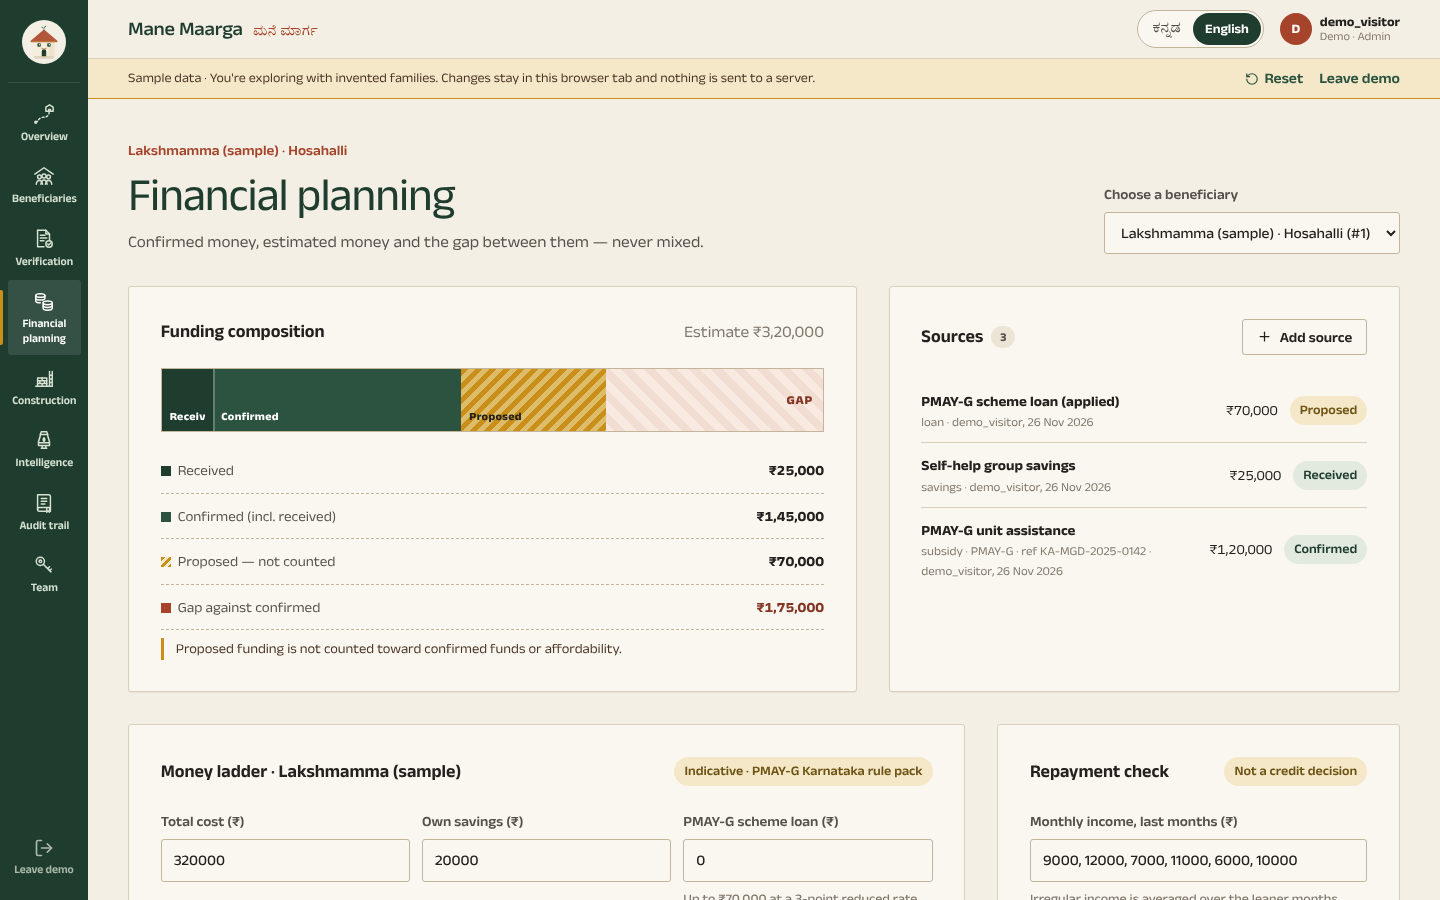
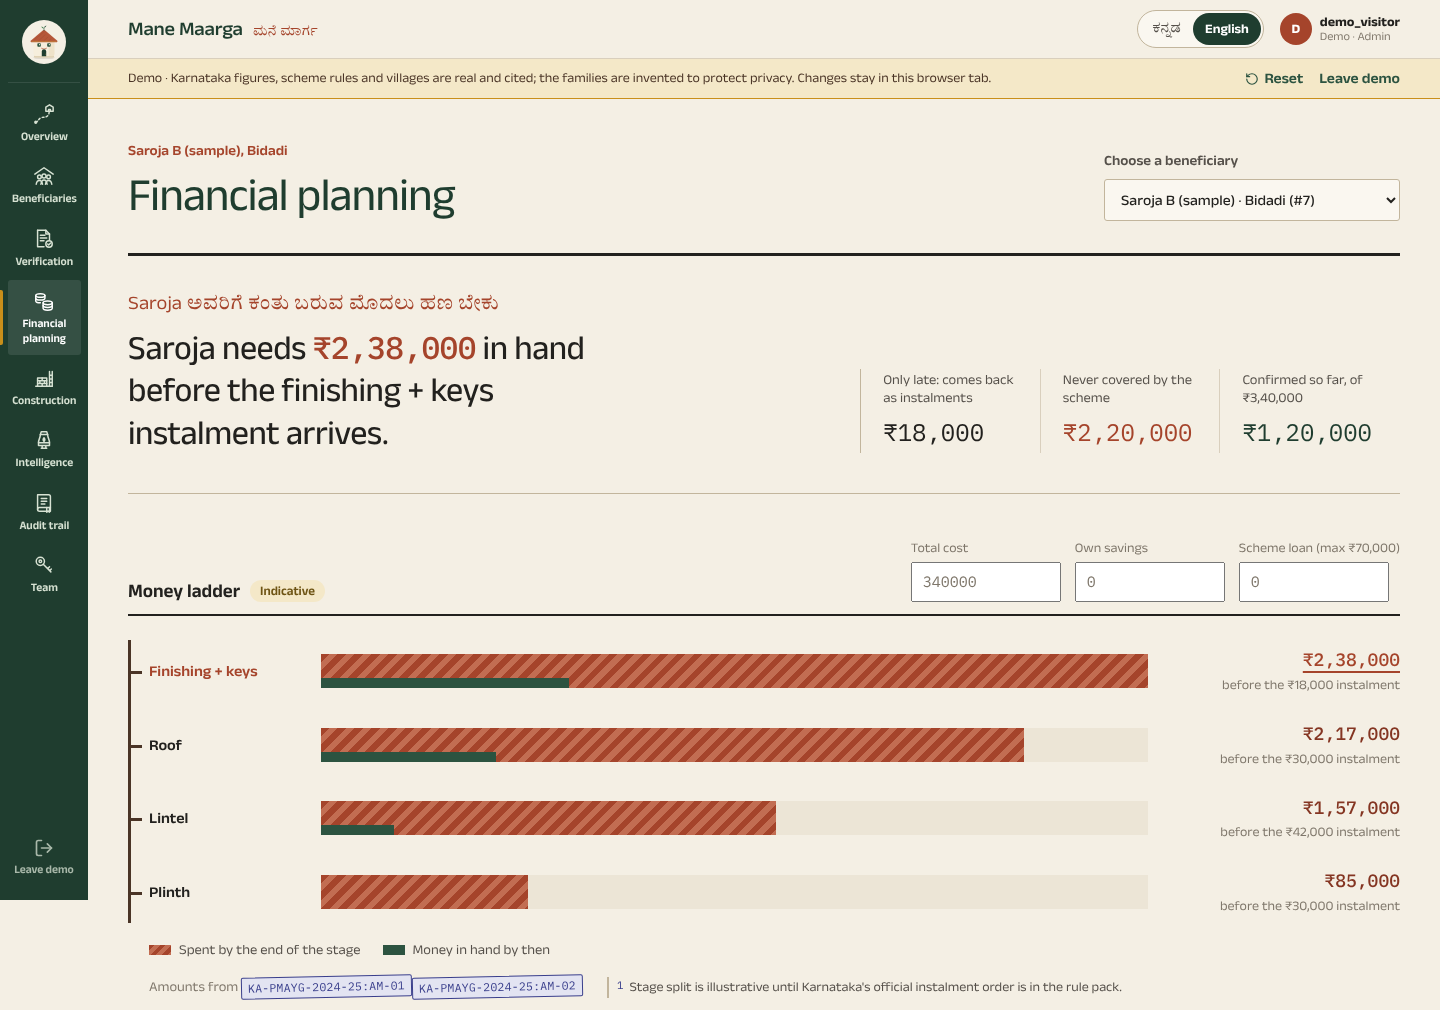
retake README screenshots and log the page redesign
The landing screenshot now shows the Kannada voice conversation; the
overview, financial planning and verification shots show the new
answer-first layouts.

diff --git a/README.md b/README.md
@@ -70,23 +70,23 @@ Every rule and rupee comes from a dated, cited rule pack. [PROBLEM.md](PROBLEM.m
 | **Red-pen document checks** | Land records are compared with the case field by field; a reviewer decides on every mismatch. | Verification |
 
 <div align="center">
-<img src="docs/assets/screenshots/landing-different.png" width="880" alt="The landing page section What only Mane Maarga does, showing the money ladder with stage costs and the money short before each instalment" />
-<br /><sub>The landing page shows each of these as a working piece of the product.</sub>
+<img src="docs/assets/screenshots/landing-voice.png" width="880" alt="The landing page voice section: the recorded Kannada intake questions playing in order with example answers, the current line highlighted with its English meaning, and a live waveform" />
+<br /><sub>On the landing page, the Kannada intake plays as a short conversation in the recorded voice.</sub>
 </div>
 
 ## Screenshots
 
 <table>
 <tr>
-<td width="50%"><img src="docs/assets/screenshots/dashboard.png" alt="Overview: every family placed on the six-stage journey, a needs-attention list and a money ledger" /><br /><sub><b>Overview</b> · every family on the journey, plus what needs a decision today</sub></td>
+<td width="50%"><img src="docs/assets/screenshots/dashboard.png" alt="Overview: how many families need a decision today, the six-stage journey, and each family with the one action it needs" /><br /><sub><b>Overview</b> · who needs a decision today, and what to do for each</sub></td>
 <td width="50%"><img src="docs/assets/screenshots/beneficiaries.png" alt="Beneficiary list with journey progress dots, estimates, gaps and consent status" /><br /><sub><b>Beneficiaries</b> · search, filters, and compact, detailed or village views</sub></td>
 </tr>
 <tr>
 <td width="50%"><img src="docs/assets/screenshots/beneficiary-details.png" alt="Case file for a sample family showing the house drawing, journey timeline, documents and finances" /><br /><sub><b>Case file</b> · the family's whole housing journey on one page</sub></td>
-<td width="50%"><img src="docs/assets/screenshots/verification.png" alt="Verification desk: PDF preview beside extracted fields, with a village-name mismatch flagged" /><br /><sub><b>Verification desk</b> · extraction suggests, the reviewer decides</sub></td>
+<td width="50%"><img src="docs/assets/screenshots/verification.png" alt="Verification desk: the document compared with the case file field by field, a mismatch struck through in red, and the decision buttons" /><br /><sub><b>Verification desk</b> · document vs case file; the reviewer decides</sub></td>
 </tr>
 <tr>
-<td width="50%"><img src="docs/assets/screenshots/financial-planning.png" alt="Financial planning: funding composition, sources and the money ladder by construction stage" /><br /><sub><b>Financial planning</b> · confirmed vs proposed money, and the money ladder</sub></td>
+<td width="50%"><img src="docs/assets/screenshots/financial-planning.png" alt="Financial planning: the cash the family needs before the next instalment, then the money ladder by construction stage" /><br /><sub><b>Financial planning</b> · the cash needed before each instalment</sub></td>
 <td width="50%"><img src="docs/assets/screenshots/intelligence.png" alt="Case analysis listing recommended next steps with their evidence and the human-approval gate" /><br /><sub><b>Intelligence</b> · suggestions with evidence; a person approves every decision</sub></td>
 </tr>
 </table>

diff --git a/CHANGELOG.md b/CHANGELOG.md
@@ -2,6 +2,14 @@
 
 Dates are build days of the Mane Maarga Master Plan v2. Each line names what changed and how it was checked.
 
+## Site, part 2 · 26 Nov 2026 · Pages that answer first
+- The landing page is back to its original design, with one new section: the recorded Kannada intake questions play as a short conversation, the current line highlighted with its English meaning and a live waveform.
+- Overview, Financial planning and Verification each open on one sentence that answers the page's question: how many families need a decision today; the cash a family needs before its next instalment; how many fields differ from the case file. Supporting figures sit beside it.
+- Overview: one action per family (record consent, plan the gap, add an estimate); money and activity in a side column; the Karnataka figures as one line.
+- Financial planning: opens on a family with an estimate; the money ladder is full width, seeded from the family's recorded savings and loans, with the tightest stage marked. Sources are a table; the repayment check folds away.
+- Verification: the document-vs-case-file comparison is the main view, mismatches in red pen, decision buttons under the answer; the preview folds away.
+- Checked with screenshots at 1440px and 390px; tsc, ESLint, style lint and build pass. README screenshots retaken.
+
 ## Data · 26 Nov 2026 · Real public figures in the demo
 - `backend/app/public_data/ka_pmayg_progress.json`: Karnataka and all-India PMAY-G targets, sanctions and completions from Lok Sabha Q.3722 (as on 7 Aug 2025), Q.428 (17 Jul 2025), Q.931 (9 Dec 2022) and PIB (Mar 2025), each with its link. Served at `GET /api/public-data/pmayg/karnataka` with derived figures computed in code.
 - The landing page and the overview lead with it: 3,62,342 sanctioned houses in Karnataka not yet finished; 30.4% completion against 73.4% across India; sanctions growing faster than completions.
